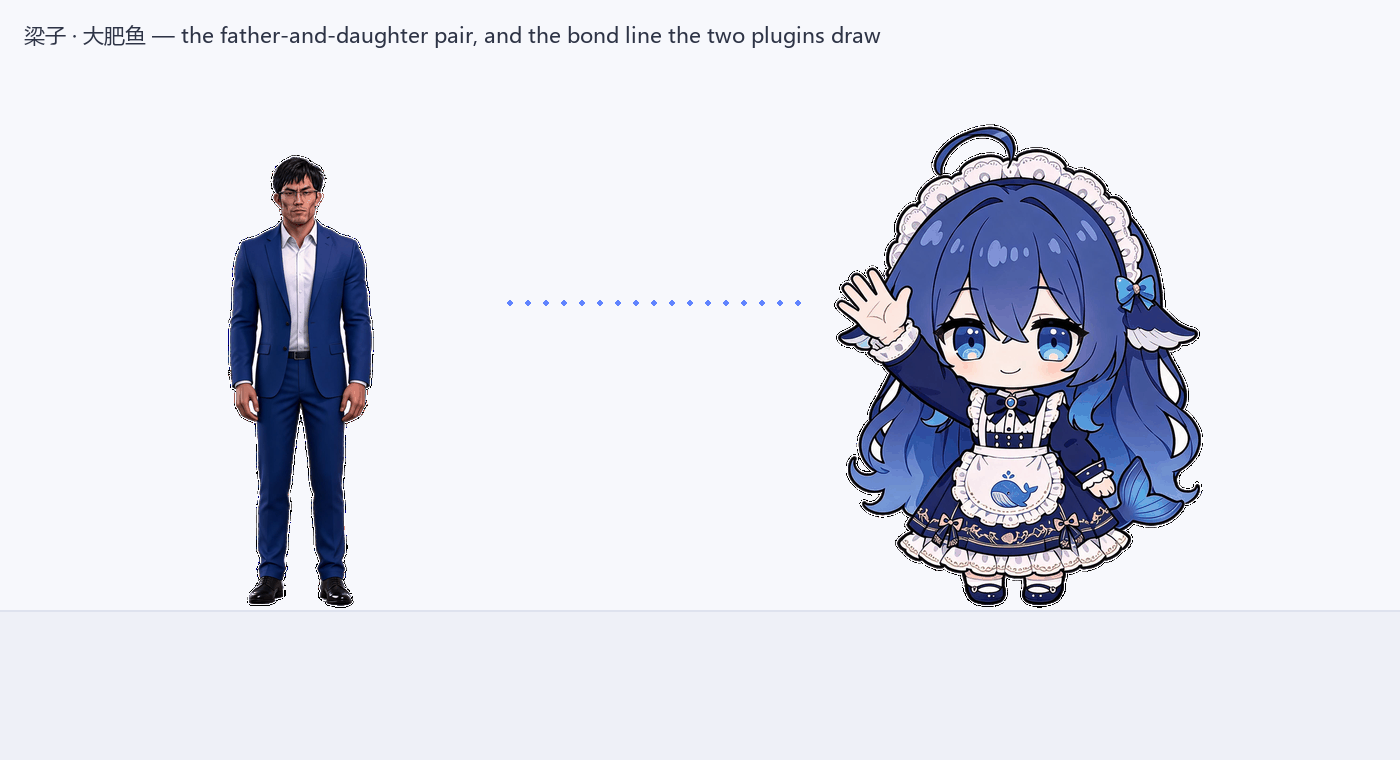
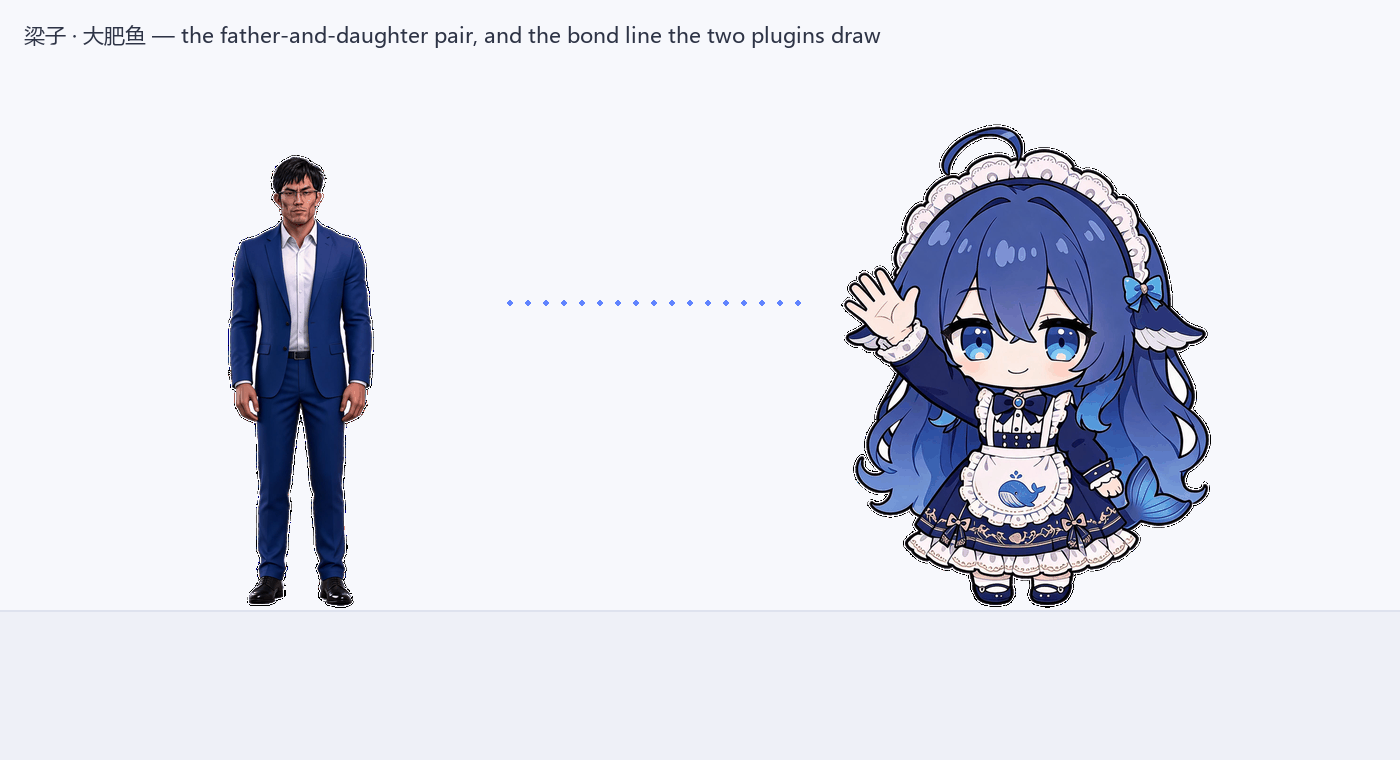
梁子 — the walk actually walks now, and the gift loop is gone
Fixed: handing rice and hearts back and forth never stopped. The receiver
answered every gift it received, including the answers, so one press
started an exchange that ran for as long as the app stayed open — and a
few presses at once made the whole Harness unresponsive. A gift is now
answered exactly once, behind a rate limit and a hard ceiling on live
particles.

Fixed: a scene that interrupted another left the first one's cue timers
running, so the old subtitles kept writing over the new scene.

Fixed: the arrival greeting could pick the longest playlet, leaving both
pets unable to answer a click for fourteen seconds.

Fixed: the walk, which had two separate causes. The stride was measured
against the sprite figure instead of the canvas it sits in, so he travelled
1.4x further per step than his own legs did. And every pose was centred on
the whole figure's centroid, which follows a swinging arm — so the body
slid sideways between frames and the feet could never plant. Poses are now
anchored on the head and shoulders, and the stride is measured off the
contact frames by a script instead of guessed.

Fixed: the two pets could be drawn on top of each other. Destinations are
now checked against the sibling's footprint, and whichever pet is on the
right steps aside if the other arrives anyway.

Changed: the hover switches are a column down the pet's side rather than a
row above its head, where they covered the speech bubble.

Changed region(s): [[0.5836, 0.1513, 0.86, 0.8171]]

diff --git a/lib/client.js b/lib/client.js
@@ -98,8 +98,30 @@ window.__ModuleLoader__.load({
     const WALK_CYCLE = ['walk1', 'walkpass', 'walk2', 'walkpass']
     const STEP_MS = 165
     const STEPS_PER_CYCLE = 2
-    /** How far one step carries the character, as a fraction of its height. */
-    const STRIDE_RATIO = 0.30
+    /**
+     * How far one step carries the character, as a fraction of the sprite
+     * *canvas* — not of the drawn figure inside it.
+     *
+     * This number is measured off the artwork by `measure_stride.py`, which
+     * finds the horizontal spread of the feet in the two contact frames. The
+     * distinction matters more than it looks: the figures only fill about 71%
+     * of their canvas, so expressing the stride against the figure instead of
+     * the canvas makes the pet travel 1.4× further per step than its own legs
+     * do, and it skates — with every frame correctly drawn.
+     */
+    const STRIDE_RATIO = 0.177
+
+    /** How long one gift exchange may take, and how often one may start. */
+    const GIFT_COOLDOWN_MS = 2500
+    /**
+     * Hard ceiling on live particles.
+     *
+     * Nothing should ever reach this — every burst is small and short-lived —
+     * but a particle list that only ever shrinks on a timer is one runaway
+     * caller away from eating the page, so the cap is here rather than a
+     * comment saying it cannot happen.
+     */
+    const FX_LIMIT = 48
 
     /** How long each particle kind lives, in ms. */
     const FX_LIFE = { heart: 1500, sparkle: 1200, zzz: 2200, sweat: 1100, note: 1600, rice: 1400, anger: 1100 }
@@ -455,6 +477,10 @@ window.__ModuleLoader__.load({
       let sleepTimer = null
       let chatterTimer = null
       let wanderTimer = null
+      let spacingTimer = null
+      let giftTimer = null
+      let lastGiftAt = 0
+      let cueTimers = []
       let actTimer = null
       let blinkTimer = null
       let stepTimer = null
@@ -509,6 +535,37 @@ window.__ModuleLoader__.load({
         return Math.max(0, view.vw - view.width)
       }
 
+      /** How much clear floor this pet insists on between itself and anyone else. */
+      const PERSONAL_GAP = 18
+
+      /**
+       * Nudge a desired left offset until it no longer overlaps the sibling.
+       *
+       * Two pets that can both wander freely will eventually stand in the same
+       * spot, and one will be drawn on top of the other. Rather than let that
+       * happen and hope, every destination is pushed out of the sibling's
+       * footprint first — to whichever side is nearer, and if neither side has
+       * room, to the side with more.
+       */
+      function avoidSibling(target) {
+        const box = partnerBounds()
+        if (box === null) return target
+        const mine = view.width
+        const theirs = typeof box.width === 'number' ? box.width : mine
+        const clearance = (mine + theirs) / 2 + PERSONAL_GAP
+        const myCentre = target + mine / 2
+        const theirCentre = box.x + theirs / 2
+        if (Math.abs(myCentre - theirCentre) >= clearance) return target
+        const leftSpot = theirCentre - clearance - mine / 2
+        const rightSpot = theirCentre + clearance - mine / 2
+        const fits = (x) => x >= -0.5 && x <= maxX() + 0.5
+        const wantsLeft = myCentre <= theirCentre
+        const first = wantsLeft ? leftSpot : rightSpot
+        const second = wantsLeft ? rightSpot : leftSpot
+        const chosen = fits(first) ? first : (fits(second) ? second : (leftSpot > 0 ? leftSpot : rightSpot))
+        return Math.max(0, Math.min(maxX(), chosen))
+      }
+
       function maxY() {
         return Math.max(FLOOR, Math.round(view.vh * 0.62))
       }
@@ -544,7 +601,7 @@ window.__ModuleLoader__.load({
       function burst(kind, count) {
         if (typeof FX_LIFE[kind] !== 'number') return
         const now = Date.now()
-        const total = count === undefined ? 1 : count
+        const total = Math.max(0, Math.min(12, count === undefined ? 1 : count))
         for (let i = 0; i < total; i += 1) {
           fxSeq += 1
           view.fx.push({
@@ -558,6 +615,7 @@ window.__ModuleLoader__.load({
             until: now + FX_LIFE[kind] + i * 110 + 200,
           })
         }
+        if (view.fx.length > FX_LIMIT) view.fx = view.fx.slice(-FX_LIMIT)
         notify()
       }
 
@@ -823,6 +881,37 @@ window.__ModuleLoader__.load({
         return duration
       }
 
+      /**
+       * Keep out of the sibling's way.
+       *
+       * The destination checks stop this pet *walking* into the other one, but
+       * they cannot stop the other one arriving — it may have been dragged on
+       * top, or walked over while this pet was busy. So the floor is checked
+       * periodically as well, and whoever is free steps aside.
+       */
+      function scheduleSpacing() {
+        window.clearTimeout(spacingTimer)
+        if (disposed) return
+        spacingTimer = window.setTimeout(() => {
+          if (disposed) return
+          if (cfg.link === 'true' && !sleeping && !view.dragging && !busy() && raf === null) {
+            const box = partnerBounds()
+            if (box !== null) {
+              const mine = view.x + view.width / 2
+              const theirs = box.x + (typeof box.width === 'number' ? box.width : view.width) / 2
+              const clearance = (view.width + (typeof box.width === 'number' ? box.width : view.width)) / 2
+                + PERSONAL_GAP
+              if (Math.abs(mine - theirs) < clearance) {
+                // Only the pet on the right gives way, so they never both move
+                // and swap places.
+                if (mine > theirs) walkToX(avoidSibling(view.x), 1)
+              }
+            }
+          }
+          scheduleSpacing()
+        }, 2200)
+      }
+
       function scheduleWander() {
         window.clearTimeout(wanderTimer)
         if (cfg.wander !== 'true' || disposed) return
@@ -836,7 +925,7 @@ window.__ModuleLoader__.load({
             if (box !== null && Math.random() < 0.45) {
               api.approach()
             } else {
-              wanderTo(Math.random() * maxX())
+              wanderTo(avoidSibling(Math.random() * maxX()))
             }
           }
           scheduleWander()
@@ -922,14 +1011,20 @@ window.__ModuleLoader__.load({
       function playJoint(name) {
         const scene = JOINTS[name]
         if (scene === undefined || disposed) return
+        // Stop whatever the previous scene left running. Cancelling only the
+        // closing timeout used to leave that scene's per-cue timers alive, and
+        // they would go on setting poses and writing subtitles over the top of
+        // the new one — a slow leak of timers that also corrupted the display.
         window.clearTimeout(speechTimer)
+        for (const id of cueTimers) window.clearTimeout(id)
+        cueTimers = []
         setPose('talk')
         busyUntil = Date.now() + scene.duration + 700
         if (cfg.bubble === 'true' && scene.cues.length > 0) {
           view.bubble = { text: '' }
           notify()
         }
-        const cueTimers = scene.cues.map((cue) => window.setTimeout(() => {
+        cueTimers = scene.cues.map((cue) => window.setTimeout(() => {
           if (disposed) return
           if (cfg.bubble === 'true') view.bubble = { text: cue.mine ? cue.text : SIBLING_NAME + '：' + cue.text }
           setPose(cue.mine ? 'talk' : (has('happy') ? 'happy' : 'idle'))
@@ -940,6 +1035,7 @@ window.__ModuleLoader__.load({
         speechTimer = window.setTimeout(() => {
           if (disposed) return
           for (const id of cueTimers) window.clearTimeout(id)
+          cueTimers = []
           view.bubble = null
           setPose(restPose())
           notify()
@@ -974,6 +1070,24 @@ window.__ModuleLoader__.load({
         const clamped = Math.max(0, Math.min(maxX(), target))
         if (Math.abs(clamped - view.x) < 6) return 0
         return wanderTo(clamped, scale)
+      }
+
+      /** The spot beside the sibling: close, but never on top of it. */
+      function besideSibling() {
+        const box = partnerBounds()
+        if (box === null) return null
+        const theirs = typeof box.width === 'number' ? box.width : view.width
+        const theirCentre = box.x + theirs / 2
+        const room = (view.width + theirs) / 2 + PERSONAL_GAP
+        const left = theirCentre - room - view.width / 2
+        const right = theirCentre + room - view.width / 2
+        const fits = (x) => x >= -0.5 && x <= maxX() + 0.5
+        const preferLeft = view.x + view.width / 2 <= theirCentre
+        const first = preferLeft ? left : right
+        const second = preferLeft ? right : left
+        if (fits(first)) return first
+        if (fits(second)) return second
+        return null
       }
 
       /** Turn towards the sibling, so a line is spoken to someone. */
@@ -1074,6 +1188,7 @@ window.__ModuleLoader__.load({
           scheduleChatter()
           scheduleSleep()
           scheduleWander()
+          scheduleSpacing()
         },
 
         click() {
@@ -1186,7 +1301,13 @@ window.__ModuleLoader__.load({
               window.setTimeout(() => {
                 if (disposed) return
                 react('heart')
-                playJoint(pick(Object.keys(JOINTS), null))
+                // Greet with one of the *short* scenes. Picking at random among
+                // all of them meant the two pets could arrive and then stand
+                // there talking for fourteen seconds, during which neither
+                // answered a click.
+                const short = Object.keys(JOINTS)
+                  .filter((key) => (JOINTS[key].duration || 0) <= 11000)
+                playJoint(pick(short.length > 0 ? short : Object.keys(JOINTS), null))
               }, 900)
             }
           })
@@ -1210,23 +1331,44 @@ window.__ModuleLoader__.load({
             window.setTimeout(() => {
               if (disposed || sleeping || view.dragging) return
               facePartner()
-              walkToX(wanted, 1)
+              walkToX(avoidSibling(wanted), 1)
             }, 60)
           })
           family.bus.on('family/gesture', (detail) => {
             if (detail === null || detail === undefined || detail.id === PET_ID) return
             if (cfg.link !== 'true') return
-            // Something was handed over: catch it, then hand something back.
+            // A gift is answered, but the answer must not itself be answerable.
+            //
+            // This used to reply to every gift it received, including the
+            // replies — so one press of the button started an exchange that
+            // never ended, chiming and throwing particles every 1.5 seconds for
+            // as long as the app stayed open. Clicking it a few times started
+            // several of them at once, and the page stopped responding. The
+            // `hop` field is what stops it: the receiver answers hop 0, and
+            // ignores anything that already carries a hop.
+            const hop = Number(detail.hop) || 0
+            const now = Date.now()
             facePartner()
             const kind = typeof detail.kind === 'string' ? detail.kind : 'heart'
+            if (hop >= 1) {
+              // The return gift: acknowledge it and stop.
+              react(kind === 'rice' ? 'happy' : 'heart')
+              return
+            }
+            // Rate-limit as well, in case several gifts are in flight at once.
+            if (now - lastGiftAt < GIFT_COOLDOWN_MS) return
+            lastGiftAt = now
             react(kind === 'rice' ? 'happy' : 'heart')
             burst(kind, 3)
-            window.setTimeout(() => {
+            window.clearTimeout(giftTimer)
+            giftTimer = window.setTimeout(() => {
+              giftTimer = null
               if (disposed) return
               if (family !== null && family.bus !== null) {
                 family.bus.emit('family/gesture', {
                   id: PET_ID,
                   kind: kind === 'rice' ? 'heart' : 'rice',
+                  hop: 1,
                 })
               }
             }, 1500)
@@ -1236,16 +1378,11 @@ window.__ModuleLoader__.load({
             if (cfg.link !== 'true') return
             // Walk over to the sibling before the scene starts, so the two of
             // them perform it standing next to each other.
-            const box = partnerBounds()
-            if (box !== null && view.dragging === false && sleeping === false) {
-              const theirs = box.x + box.width / 2
-              const mine = view.x + view.width / 2
-              if (Math.abs(theirs - mine) > view.width * 1.2) {
-                const room = view.width * 0.72
-                walkToX(theirs > mine ? theirs - room - view.width / 2 : theirs + room - view.width / 2, 1.15)
-              }
-              facePartner()
+            const target = besideSibling()
+            if (target !== null && view.dragging === false && sleeping === false) {
+              walkToX(target, 1)
             }
+            facePartner()
             window.setTimeout(() => {
               if (!disposed) playJoint(detail.name)
             }, 260)
@@ -1260,19 +1397,16 @@ window.__ModuleLoader__.load({
         facePartner,
         walkToX,
 
-        /** Walk over to stand beside the sibling. */
+        /** Walk over to stand beside the sibling, never on top of it. */
         approach() {
-          const box = partnerBounds()
-          if (box === null || disposed || sleeping || view.dragging) return false
-          const theirs = box.x + box.width / 2
-          const mine = view.x + view.width / 2
-          const room = (view.width + box.width) * 0.62
-          const target = theirs > mine ? theirs - room - view.width / 2 : theirs + room - view.width / 2
+          if (disposed || sleeping || view.dragging) return false
+          const target = besideSibling()
+          if (target === null) return false
           const wanted = Math.max(0, Math.min(maxX(), target))
           if (family !== null && family.bus !== null) {
             family.bus.emit('family/approach', { id: PET_ID, x: wanted })
           }
-          return walkToX(wanted, 1.15) > 0
+          return walkToX(wanted, 1) > 0
         },
 
         /** Hand something to the sibling and let it hand something back. */
@@ -1304,6 +1438,10 @@ window.__ModuleLoader__.load({
           window.clearTimeout(sleepTimer)
           window.clearTimeout(chatterTimer)
           window.clearTimeout(wanderTimer)
+          window.clearTimeout(spacingTimer)
+          window.clearTimeout(giftTimer)
+          for (const id of cueTimers) window.clearTimeout(id)
+          cueTimers = []
           window.clearTimeout(actTimer)
           window.clearTimeout(blinkTimer)
           window.clearInterval(stepTimer)
@@ -1597,17 +1735,29 @@ window.__ModuleLoader__.load({
         }, h('span', null, state.bubble.text),
         h('i', { className: 'dsh-pet-tail', 'aria-hidden': 'true' })) : null,
 
-        // Hover toolbar: the four switches people actually reach for.
+        // Hover toolbar: one column down the pet's side.
+        //
+        // It used to sit above the pet's head, which is exactly where the speech
+        // bubble goes — so the four switches covered the line being spoken. Down
+        // the side it collides with neither the bubble nor the other pet's.
         hover ? h('div', {
           'data-dsh-pet-bar': PET_ID,
-          style: {
-            position: 'absolute',
-            left: String(petCenterX) + 'px',
-            bottom: String(Math.round(bottom + height + 10)) + 'px',
-            transform: 'translateX(-50%)',
-            pointerEvents: 'auto',
-            whiteSpace: 'nowrap',
-          },
+          style: (() => {
+            const roomRight = state.vw - (state.x + width)
+            const flip = roomRight < 54 && state.x > 54
+            return {
+              position: 'absolute',
+              left: String(Math.round(flip ? state.x - 12 : state.x + width + 12)) + 'px',
+              bottom: String(Math.round(bottom + height * 0.55)) + 'px',
+              transform: flip ? 'translate(-100%, 50%)' : 'translate(0, 50%)',
+              display: 'flex',
+              flexDirection: 'column',
+              alignItems: 'stretch',
+              gap: '6px',
+              pointerEvents: 'auto',
+              whiteSpace: 'nowrap',
+            }
+          })(),
         }, ...[
           ['voice', '🔊', '对话语音'],
           ['sfx', '🎵', '音效'],
